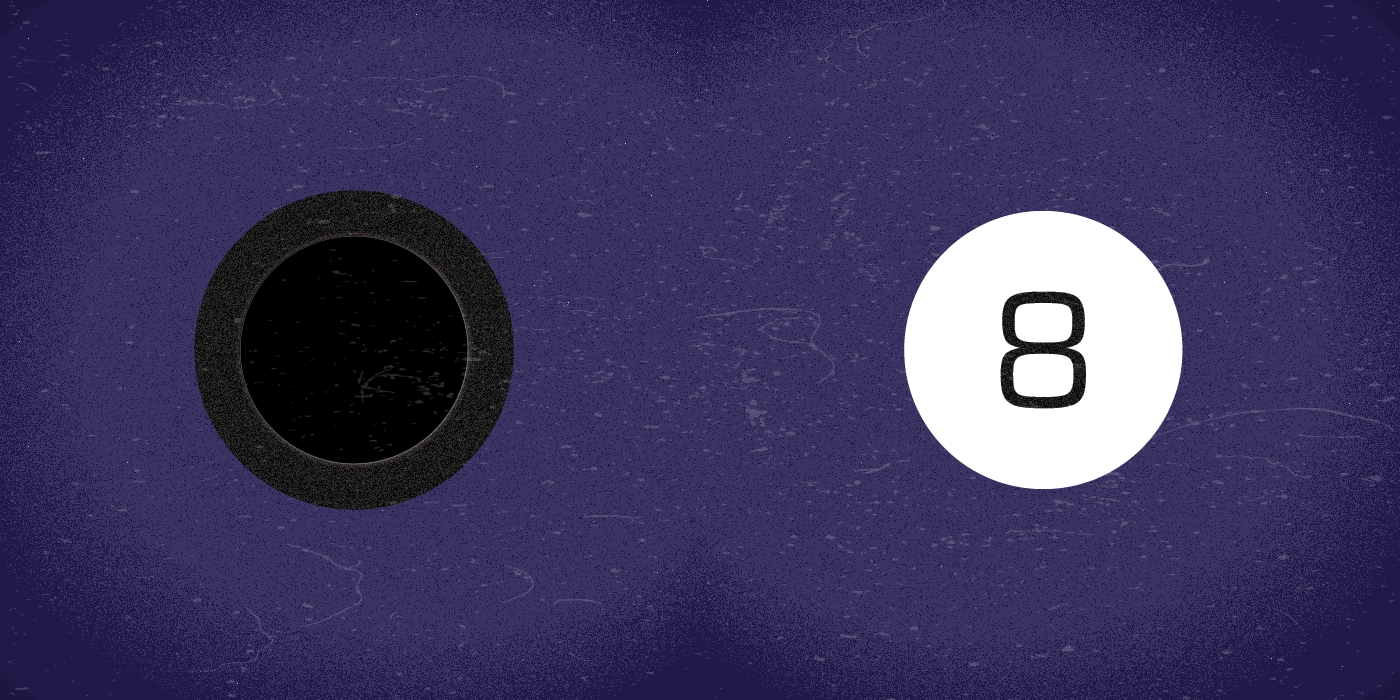
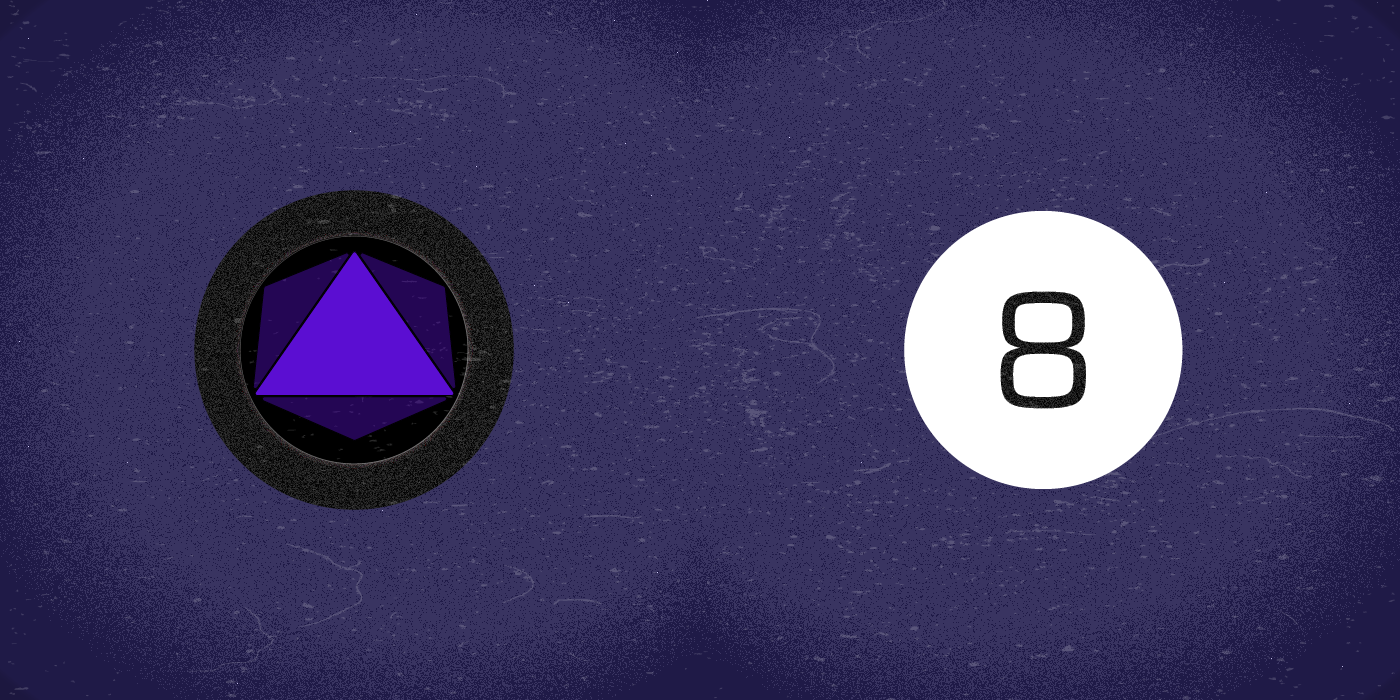
add dice

Changed region(s): [[0.1843, 0.36, 0.3379, 0.63]]

diff --git a/assets/script.js b/assets/script.js
@@ -62,7 +62,7 @@ function shakeEightBall() {
         .to('#shadow', { scale: 1, ease: 'power2' }, '-=1')
         .to('#texture', { x: 0, duration: 1, ease: 'power2.out' }, '-=1')
 
-    return (eightBallText.textContent = eightBall)
+    return (eightBallText.textContent = eightBall) && tl;
 }
 
 shakeBtn.addEventListener('click', shakeEightBall)
